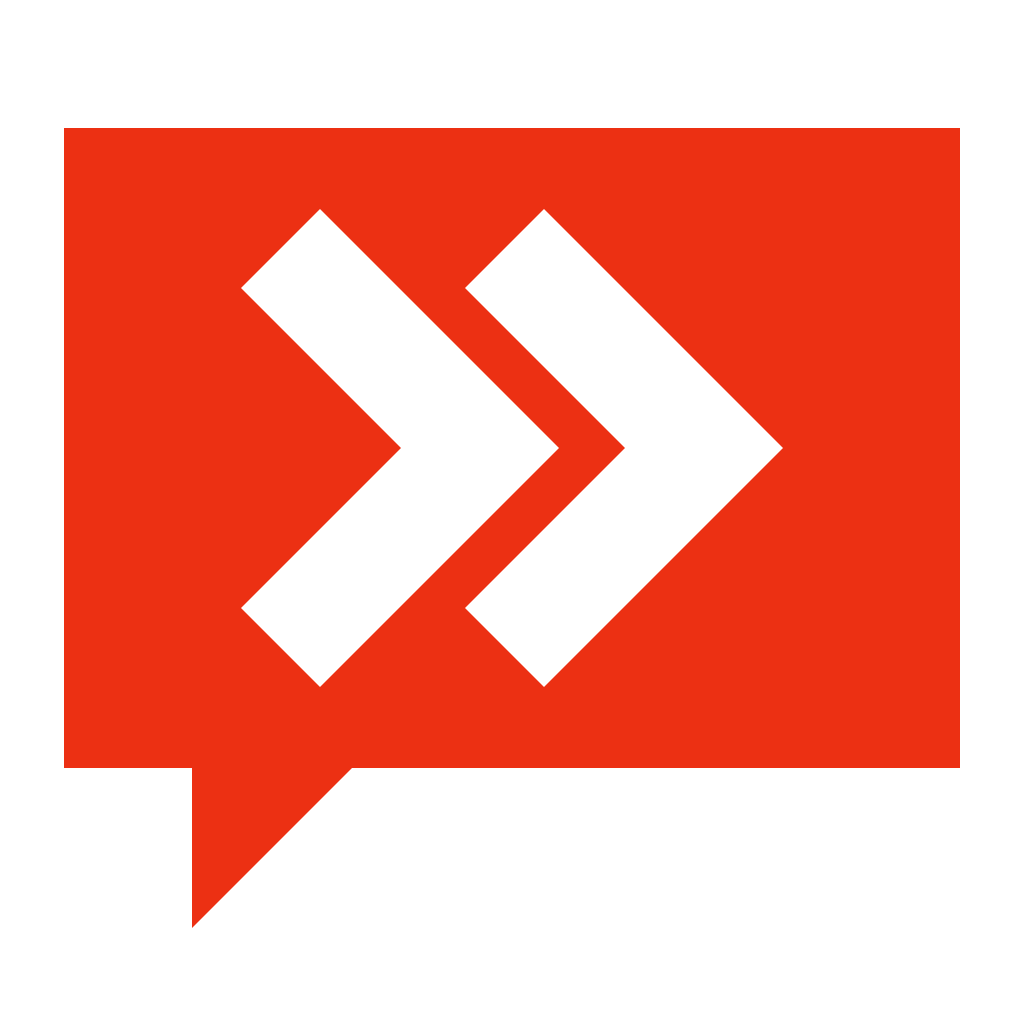
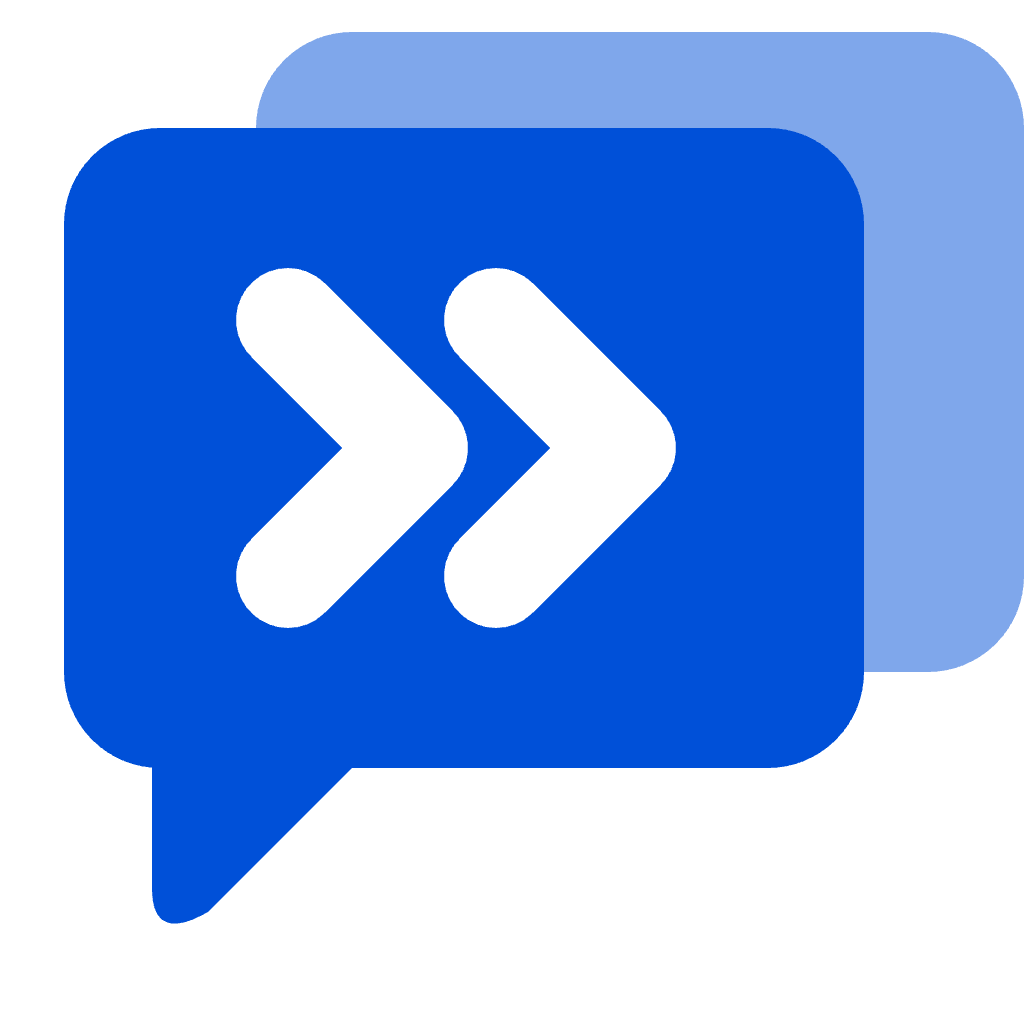
Release v1.1.4

diff --git a/CHANGELOG.md b/CHANGELOG.md
@@ -2,6 +2,12 @@
 
 All notable changes to this project will be documented in this file.
 
+## 1.1.4 - 2026-09-30
+
+### Changed
+
+- Replace the extension icon with the provided Google Messages shortcut artwork
+
 ## 1.1.3 - 2026-09-30
 
 ### Changed
